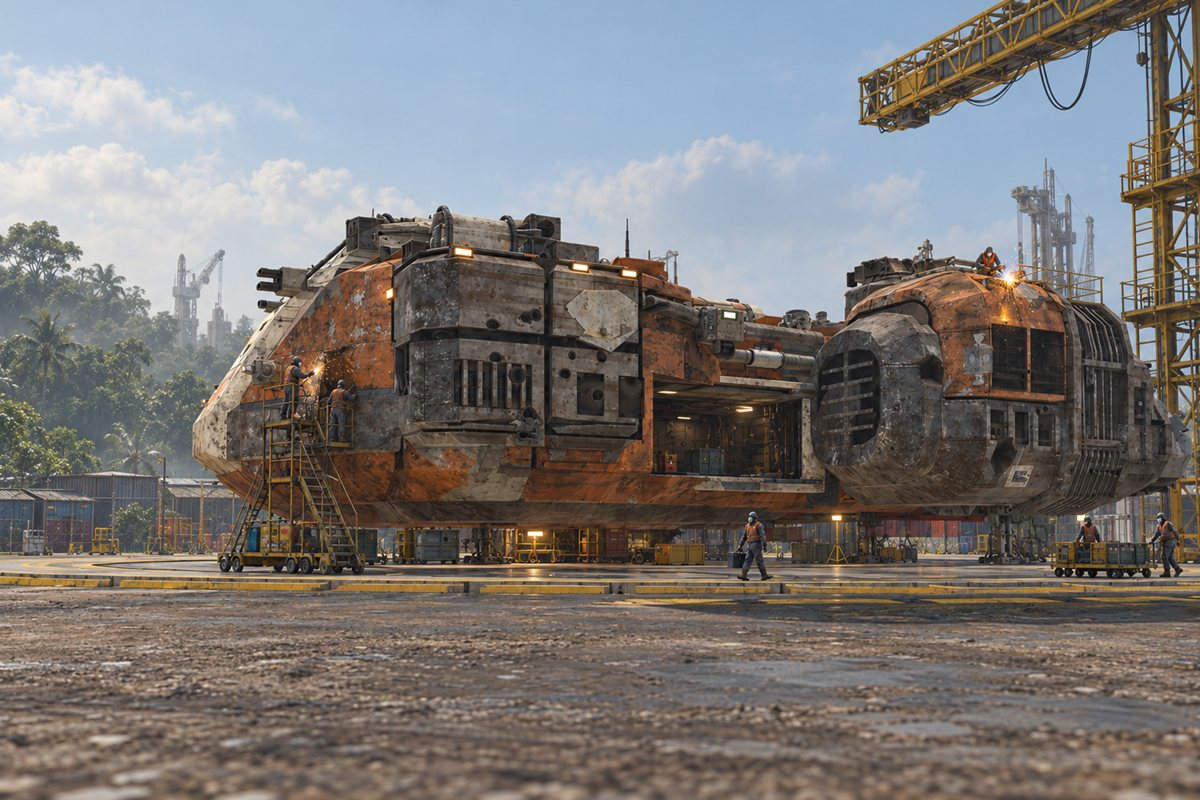
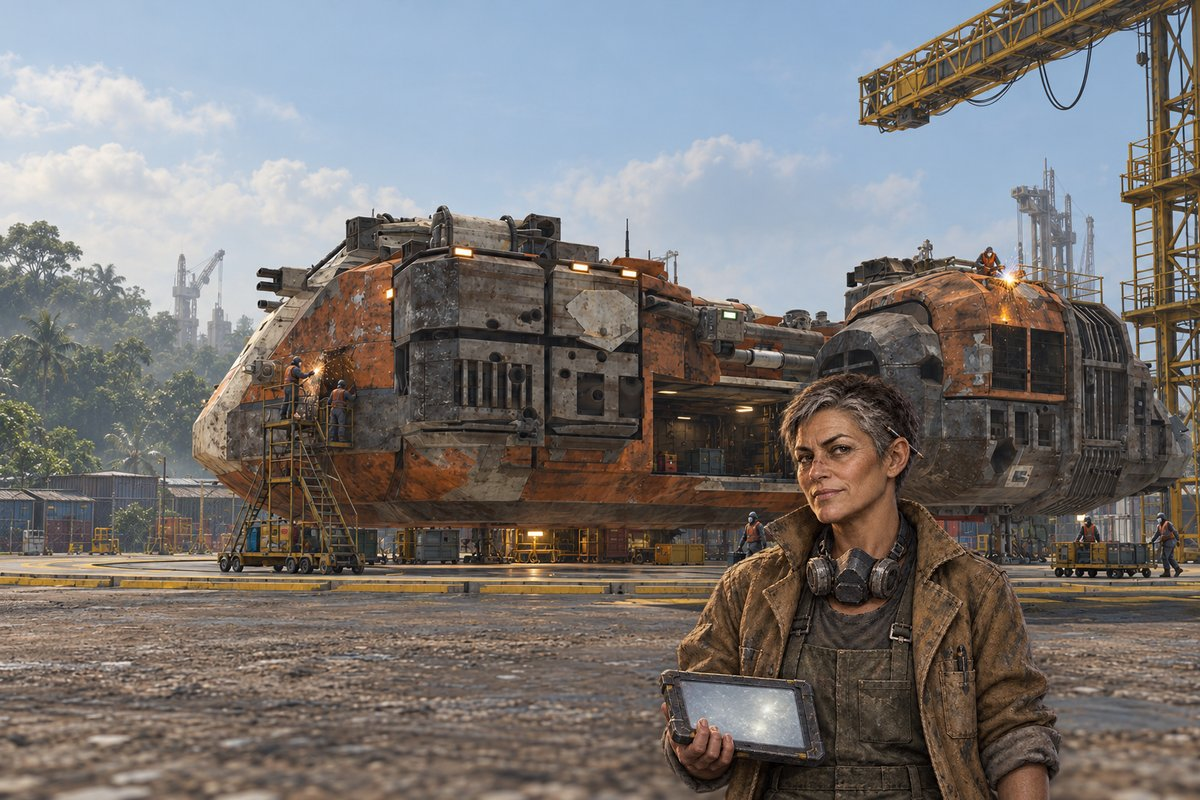
Y1 yard-hull: ship the composite with Nessa; the page is packed from its two layers

Changed region(s): [[0.5242, 0.4688, 0.8942, 1.0]]

diff --git a/art-source/company-prologue/yard-stills/compose_y1.py b/art-source/company-prologue/yard-stills/compose_y1.py
@@ -1,6 +1,6 @@
 """Y1 as layers: the yard background with Nessa's cut-out composited over it.
 
-    python compose_y1.py [--scale 0.8] [--centre-x 1100] [--out PATH]
+    python compose_y1.py [--scale 0.8] [--centre-x 1100] [--out PATH] [--pack]
 
 The yard pictures are layered (owner, 2026-10-19): `yard-hull-bg-v3.png` has nobody in the
 foreground, and `nessa-y1-cutout-v1.png` is Nessa alone on transparency, so she can be changed or
@@ -8,7 +8,9 @@ left out without repainting the yard. The cut-out came back larger than its plac
 cropped at the hips, so it is scaled about its bottom edge (which stays on the frame's bottom edge,
 where the picture crops her) and slid sideways until her centre sits at --centre-x. A soft shade
 under her lower edge settles her onto the gravel. Writes a 1536x1024 PNG (default
-build/yard-stills/y1-composite.png); pack.ps1 packs whichever master story-stills holds.
+build/yard-stills/y1-composite.png). --pack also writes the shipped page,
+mod/graphics/illustrations/company/yard-hull.jpg, at 1200x800 and quality 85 as pack.ps1 does: Y1
+has no master in story-stills, because the page is the two layers, not one painting.
 """
 import sys
 from pathlib import Path
@@ -56,8 +58,16 @@ def main():
     arg = lambda k, d: argv[argv.index(k) + 1] if k in argv else d   # noqa: E731
     out = Path(arg('--out', str(REPO / 'build' / 'yard-stills' / 'y1-composite.png')))
     out.parent.mkdir(parents=True, exist_ok=True)
-    compose(float(arg('--scale', '0.8')), float(arg('--centre-x', '1100'))).save(out)
+    image = compose(float(arg('--scale', '0.8')), float(arg('--centre-x', '1100')))
+    image.save(out)
     print('Y1_COMPOSITE', out)
+    if '--pack' in argv:
+        page = REPO / 'mod' / 'graphics' / 'illustrations' / 'company' / 'yard-hull.jpg'
+        image.resize((1200, 800), Image.LANCZOS).save(page, quality=85)
+        kib = page.stat().st_size / 1024
+        if kib > 400:
+            sys.exit('yard-hull.jpg is %.0f KiB, over the 400 KiB story-frame budget' % kib)
+        print('Y1_PAGE %s 1200x800 %.0f KiB' % (page, kib))
 
 
 if __name__ == '__main__':
